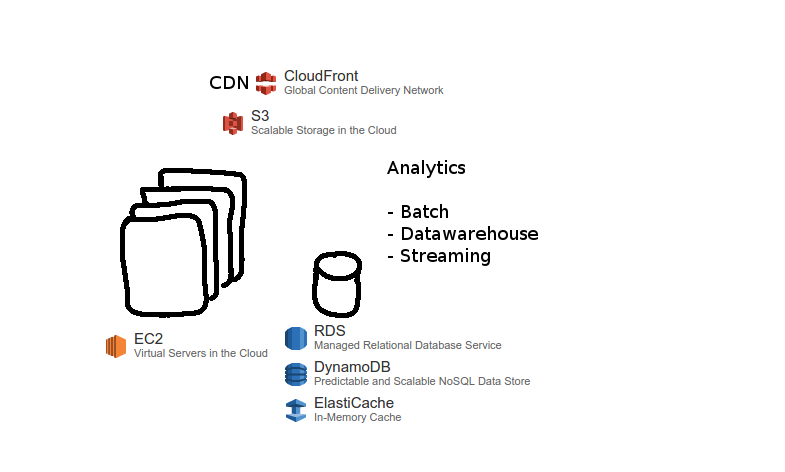
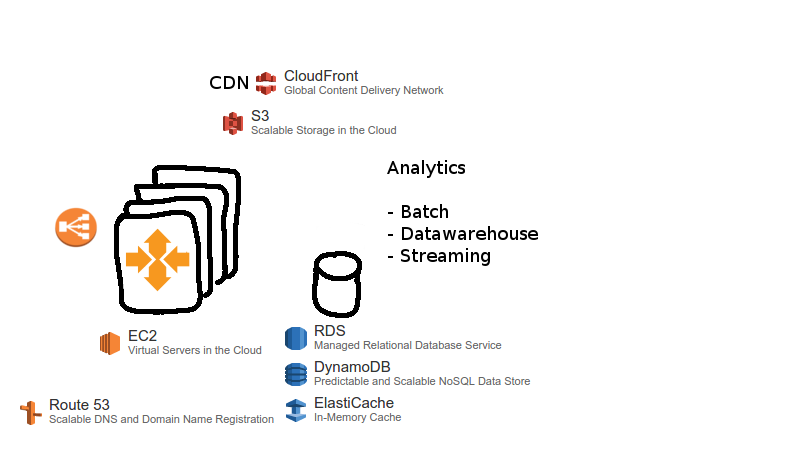
Modified diagrams, added Gartner, added Lambda, infrastructure as code, start re:invent.

Changed region(s): [[0.0611, 0.3263, 0.3363, 0.7712], [0.0306, 0.8305, 0.3363, 0.9195]]

diff --git a/aws-overview-2015-10/AwsOverview.md b/aws-overview-2015-10/AwsOverview.md
@@ -14,17 +14,22 @@ Amazon has figured out how to make cloud pay
 
 [@finley_amazon_2015]
 
-# AWS According to AWS
+# AWS
+* Started in 2006
+* 2015: Over a Million Active Customers in 190 Countries
 
-* Over a Million Active Customers in 190 Countries
+# Gartner: Infrastructure As A Service Magic Quadrant
+
+![IaaS Magic Quadrant @leong_gartner_2015](graphics/GartnerIaaSMagicQuadrant.png)
+
 
 # AWS Regions and Edge Points of Presence
 
 ![11+1 @amazon_regions_global_2015](graphics/AwsRegions-2015-11-03.png)
 
-# A Simple Web Application
+# Multiplayer Mobile Game Application
 
-![Server/Database](graphics/WebApp1-Start.png) \
+![Mobile Game/Server/Database](graphics/WebApp1-Start.png) \
 
 
 # Scaling Up - Getting Beefy
@@ -47,10 +52,79 @@ Amazon has figured out how to make cloud pay
 ![RDS/DynamoDB/ElastiCache](graphics/WebApp5-RDS.png) \
 
 
+# Amazon CloudFront CDN, S3
+
+![CloudFront/S3](graphics/WebApp6-S3.png) \
+
+
+# Amazon Scalable Analytics - Batch, Streaming, Datawarehouse
+
+![EMR/Kinesis Streaming, Redshift](graphics/WebApp7-Analytics.png) \
+
+
+# Security At Every Layer
+
+![IAM/WAF/CloudTrail](graphics/WebApp8-Security.png) \
+
+
+# Compute As A Service
+
+![ElasticBeanstalk/Lambda](graphics/WebApp9-Lambda.png) \
+
+
+# Infrastructure As Code - RESTful via AWS CLI
+```
+aws emr create-cluster
+--ec2-attributes SubnetId=subnet-xxxxx \
+--release-label emr-4.0.0 \
+--instance-groups InstanceGroupType=MASTER,\
+InstanceCount=1,InstanceType=m3.xlarge \
+InstanceGroupType=CORE,\
+InstanceCount=2,InstanceType=m3.xlarge \
+--auto-terminate
+```
+
+# Infrastructure As Code - RESTful via AWS SDKs
+
+![SDKs](graphics/AwsSdks.png)  \  
+
+
+
+# Infrastructure As Code - CloudFormation JSON
+```
+...
+"WebServerSecurityGroup": {
+      "Type": "AWS::EC2::SecurityGroup",
+      "Properties": {
+        "GroupDescription": "Enable HTTP access via port 80
+        locked down to the load balancer + SSH access",
+        "SecurityGroupIngress": [
+          {
+            "IpProtocol": "tcp",
+            "FromPort": "80",
+            "ToPort": "80",
+            "SourceSecurityGroupOwnerId": {
+              "Fn::GetAtt": [
+                "ElasticLoadBalancer",
+                "SourceSecurityGroup.OwnerAlias"
+              ]
+...
+```
 
 # 52 AWS Services:
 
 ![AWS Services](graphics/AwsServices-2015-11-03.png) \
 
+
+# Re:Invent 2015
+
+* 2013: 8,000
+* 2014: 13,000 attendees
+* 2015: Over 20,000 attendees (TechRepublic)
+* Capital One and GE as part of key note
+
+# Links
+
+https://aws.amazon.com/architecture/icons/
 
 # References {.allowframebreaks}
